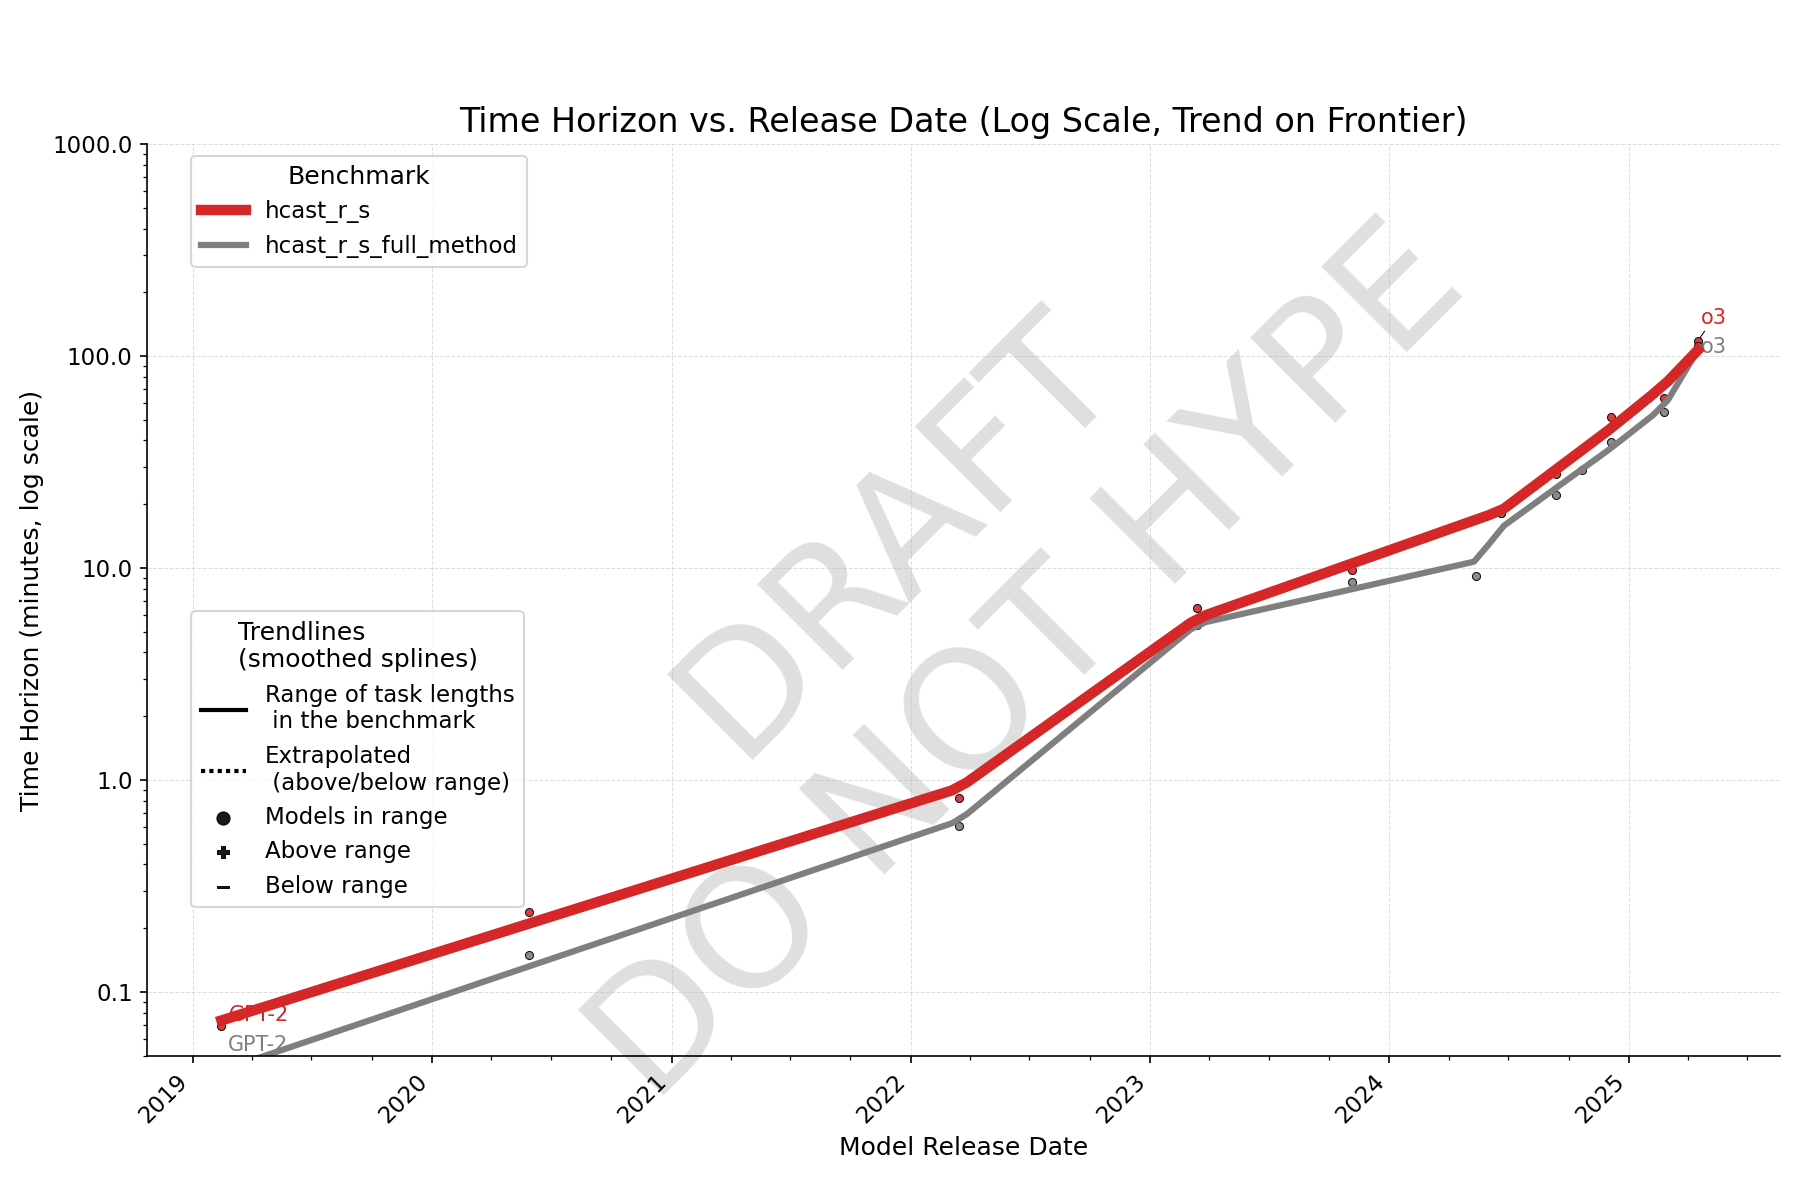
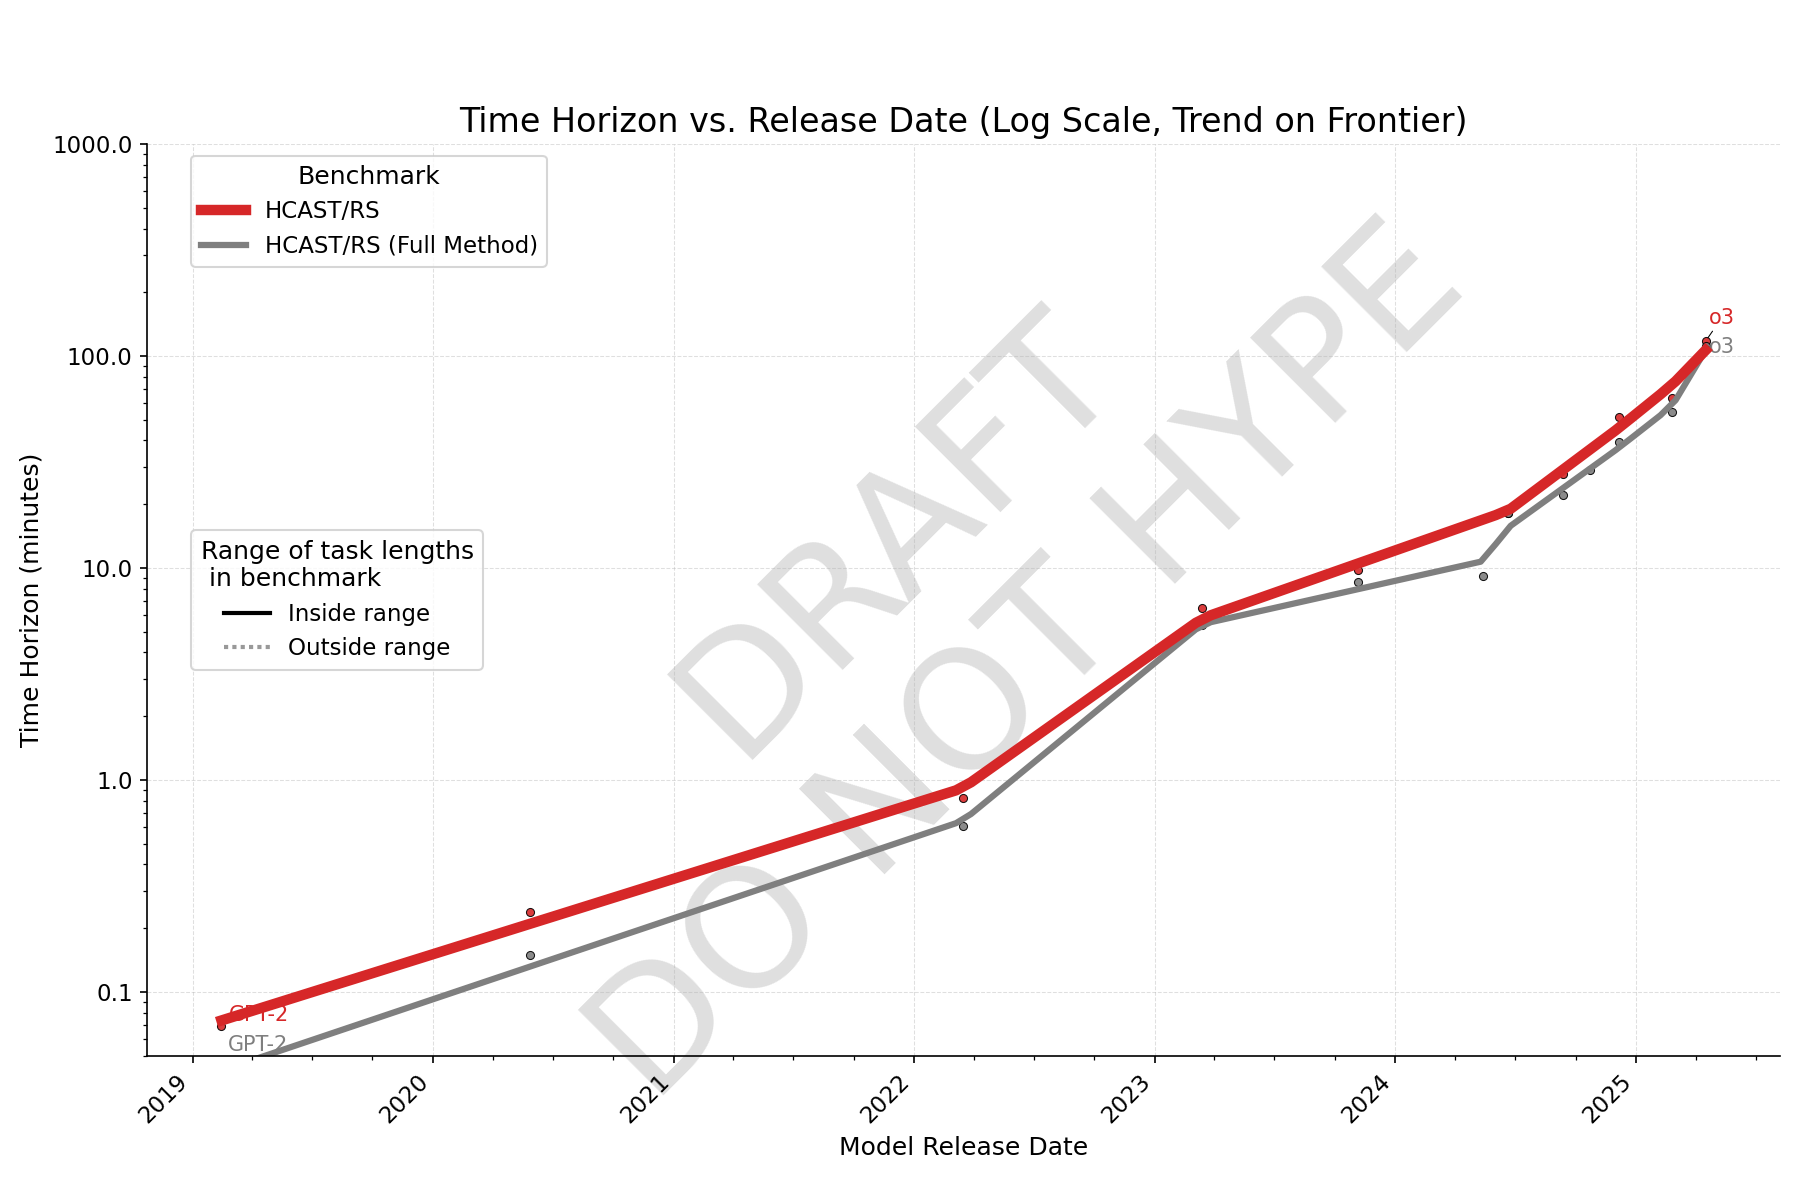
osworld correction and more plot improvements

diff --git a/plots.py b/plots.py
@@ -21,11 +21,25 @@ import wrangle
 BENCHMARKS_PATH = 'data/benchmarks'
 
 BAR_PLOT_OUTPUT_FILE = 'plots/all_bar.png'
-SCATTER_PLOT_OUTPUT_FILE = 'plots/scatter.png' # New output file
-LINES_PLOT_OUTPUT_FILE = 'plots/lines_over_time.png' # New output file for lines plot
+SCATTER_PLOT_OUTPUT_FILE = 'plots/scatter.png'
+LINES_PLOT_OUTPUT_FILE = 'plots/lines_over_time.png'
+LINES_SUBPLOTS_OUTPUT_FILE = 'plots/lines_over_time_subplots.png'
 BENCHMARK_TASK_LENGTHS_OUTPUT_FILE = 'plots/benchmark_task_lengths.png'
 LENGTH_DEPENDENCE_OUTPUT_FILE = 'plots/length_dependence.png'
 Y_AXIS_MIN_SECONDS = 60  # 1 minute
+
+
+benchmark_aliases = {
+    "aime": "AIME",
+    "gpqa": "GPQA",
+    "hcast_r_s": "HCAST/RS",
+    "hcast_r_s_full_method": "HCAST/RS (Full Method)",
+    "hendrycks_math": "MATH",
+    "livecodebench_2411_2505": "LiveCodeBench",
+    "osworld": "OSWorld",
+    "tesla_fsd": "Tesla FSD",
+    "video_mme": "Video-MME",
+}
 
 plotting_aliases = {
     "google_gemini_1_5_pro_002": "G 1.5 Pro",
@@ -58,6 +72,7 @@ class LinesPlotParams:
     show_benchmarks: list[str] = field(default_factory=list)
     hide_benchmarks: list[str] = field(default_factory=list)
     show_doubling_rate: bool = False
+    subplots: bool = False
 
 def add_watermark(ax=None, text="DRAFT\nDO NOT HYPE", alpha=0.25):
     """Add a watermark to the current plot or specified axes."""
@@ -178,7 +193,12 @@ def plot_lines_over_time(df, output_file,
         if frontier_indices:
             plot_df.loc[frontier_indices, 'is_frontier'] = True
 
-    fig, ax = plt.subplots(figsize=(12, 8))
+    if params.subplots:
+        # last subplot contains legend
+        fig, axs = plt.subplots(figsize=(12, 8), nrows=(len(benchmarks) + 1) // 3, ncols=3, sharex=True, sharey=True)
+        axs = axs.flatten()
+    else:
+        fig, ax = plt.subplots(figsize=(12, 8))
 
     palette = sns.color_palette(n_colors=len(benchmarks))
     benchmark_colors = {bench: color for bench, color in zip(benchmarks, palette)}
@@ -191,6 +211,10 @@ def plot_lines_over_time(df, output_file,
         benchmarks = [bench for bench in benchmarks if bench in params.show_benchmarks]
 
     for bench in benchmarks:
+        if params.subplots:
+            ax = axs[benchmarks.index(bench)]
+            ax.set_title(benchmark_aliases[bench], fontsize=10)
+
         bench_data = plot_df[plot_df['benchmark'] == bench]
         color = benchmark_colors[bench]
         frontier_data = bench_data[bench_data['is_frontier']]
@@ -270,7 +294,7 @@ def plot_lines_over_time(df, output_file,
 
             is_hcast = bench == "hcast_r_s"
             # Plot HCAST in front and thicker
-            ax.plot(x_line_date[mask_within], y_line[mask_within], color=color, linestyle='-', linewidth=5 if is_hcast else 3, label=f"{bench}", zorder=100 if is_hcast else None)
+            ax.plot(x_line_date[mask_within], y_line[mask_within], color=color, linestyle='-', linewidth=5 if is_hcast else 3, label=f"{benchmark_aliases[bench]}", zorder=100 if is_hcast else None)
             ax.plot(x_line_date[mask_above], y_line[mask_above], color=color, alpha=0.4, linestyle=densely_dotted, linewidth=3)
             ax.plot(x_line_date[mask_below], y_line[mask_below], color=color, alpha=0.4, linestyle=densely_dotted, linewidth=3)
 
@@ -297,12 +321,19 @@ def plot_lines_over_time(df, output_file,
 
     ax.set_yscale('log')
     ax.yaxis.set_major_formatter(mticker.StrMethodFormatter('{x}'))
-    ax.set_ylim(0.05, 1000)
+    plt.ylim(0.05, 1000)
 
-    ax.set_xlabel("Model Release Date")
-    ax.set_ylabel("Time Horizon (minutes, log scale)")
-    ax.set_title("Time Horizon vs. Release Date (Log Scale, Trend on Frontier)")
-    ax.grid(True, which="major", ls="--", linewidth=0.5, alpha=0.4)
+    if params.subplots:
+        fig.suptitle("Time Horizon vs. Release Date (Log Scale, Trend on Frontier)")
+        fig.supxlabel("Model Release Date")
+        fig.supylabel("Time Horizon (minutes)")
+    else:
+        plt.xlabel("Model Release Date")
+        plt.ylabel("Time Horizon (minutes)")
+        plt.title("Time Horizon vs. Release Date (Log Scale, Trend on Frontier)")
+        ax.grid(True, which="major", ls="--", linewidth=0.5, alpha=0.4)
+
+
 
     # Format x-axis dates
     ax.xaxis.set_major_locator(mdates.YearLocator())
@@ -310,36 +341,39 @@ def plot_lines_over_time(df, output_file,
     ax.xaxis.set_minor_locator(mdates.MonthLocator(bymonth=[1, 4, 7, 10]))
     fig.autofmt_xdate(rotation=45, ha='right') # Auto-format dates (includes rotation)
 
-    # Adjust text to prevent overlap
-    if texts:
-        adjustText.adjust_text(texts, ax=ax,
-                               arrowprops=dict(arrowstyle='-', color='black', lw=0.5))
 
     # Create a legend
     handles, labels = ax.get_legend_handles_labels()
 
-    legend2_handles = []
-    handle1, = ax.plot([], [], color='black', linestyle='-', linewidth=2, label="Range of task lengths\n in the benchmark")
-    legend2_handles.append(handle1)
-    handle2, = ax.plot([], [], color='black', linestyle=densely_dotted, linewidth=2, label="Extrapolated\n (above/below range)")
-    legend2_handles.append(handle2)
-    if params.show_points_level >= ShowPointsLevel.FRONTIER:
-        handle3 = ax.scatter([], [], color='black', marker='o', alpha=0.9, s=40, edgecolor='k', linewidth=0.5, label="Models in range")
-        legend2_handles.append(handle3)
-        handle4 = ax.scatter([], [], color='black', marker='P', alpha=0.9, s=30, edgecolor='k', linewidth=0.5, label="Above range")
-        legend2_handles.append(handle4)
-        handle5 = ax.scatter([], [], color='black', marker='$-$', alpha=0.9, s=30, edgecolor='k', linewidth=0.5, label="Below range")
-        legend2_handles.append(handle5)
-    trend_legend = ax.legend(handles=legend2_handles, title="Trendlines\n(smoothed splines)", bbox_to_anchor=(0.02, 0.5), loc='upper left')
+    trend_legend_handles = []
+    handle1, = ax.plot([], [], color='black', linestyle='-', linewidth=2, label="Inside range")
+    trend_legend_handles.append(handle1)
+    handle2, = ax.plot([], [], color='black', linestyle=densely_dotted, alpha=0.4, linewidth=2, label="Outside range")
+    trend_legend_handles.append(handle2)
 
-    bench_legend = ax.legend(handles=handles, labels=labels, title='Benchmark', bbox_to_anchor=(0.02, 1), loc='upper left')
-    ax.add_artist(trend_legend)
+    if params.subplots:
+        trend_legend_ax = axs[-1]
+    else:
+        trend_legend_ax = ax
 
+    trend_legend = trend_legend_ax.legend(handles=trend_legend_handles, title="Range of task lengths\n in benchmark", bbox_to_anchor=(0.02, 0.5), loc='center left')
 
+    
+    if not params.subplots:
+        bench_legend = ax.legend(handles=handles, labels=labels, title='Benchmark', bbox_to_anchor=(0.02, 1), loc='upper left')
+        ax.add_artist(trend_legend)
+
+        if texts:
+            adjustText.adjust_text(texts, ax=ax,
+                                arrowprops=dict(arrowstyle='-', color='black', lw=0.5))
 
     add_watermark(ax)
 
-    plt.tight_layout() # Adjust layout for legend
+    if params.subplots:
+        for i in range(len(benchmarks), len(axs)):
+            axs[i].set_axis_off()
+
+    plt.tight_layout()
 
     os.makedirs(os.path.dirname(output_file), exist_ok=True)
 
@@ -498,6 +532,7 @@ def main():
         # Generate and save the lines over time plot using the original loaded data
         plot_lines_over_time(all_df.copy(), LINES_PLOT_OUTPUT_FILE, benchmark_data, LinesPlotParams(hide_benchmarks=["hcast_r_s_full_method"], show_points_level=ShowPointsLevel.NONE)) # Use copy
         plot_lines_over_time(all_df.copy(), "plots/hcast_comparison.png", benchmark_data, LinesPlotParams(show_benchmarks=["hcast_r_s", "hcast_r_s_full_method"], show_points_level=ShowPointsLevel.FRONTIER))
+        plot_lines_over_time(all_df.copy(), LINES_SUBPLOTS_OUTPUT_FILE, benchmark_data, LinesPlotParams(hide_benchmarks=["hcast_r_s_full_method"], show_points_level=ShowPointsLevel.ALL, subplots=True))
 
 
     # --- Benchmark Task Lengths Plot ---

diff --git a/osworld.py b/osworld.py
@@ -12,6 +12,7 @@ import toml
 
 median_time = 111.94 / 60
 n_tasks = 369
+human_success_rate = 0.7236
 output_dir = "data/benchmarks"
 output_filename = os.path.join(output_dir, "osworld.toml")
 
@@ -33,6 +34,8 @@ probabilities = [(i + 1) / (n_tasks + 1) for i in range(n_tasks)]
 # Calculate task completion times using the Percent Point Function (ppf) - inverse CDF
 # scipy.stats.lognorm uses s=sigma and scale=exp(mu)
 sampled_times = lognorm.ppf(probabilities, s=sigma, scale=math.exp(mu))
+
+sampled_times = sampled_times / human_success_rate
 
 # Format the times to 3 decimal places
 times = [float(round(t, 3)) for t in sampled_times]
